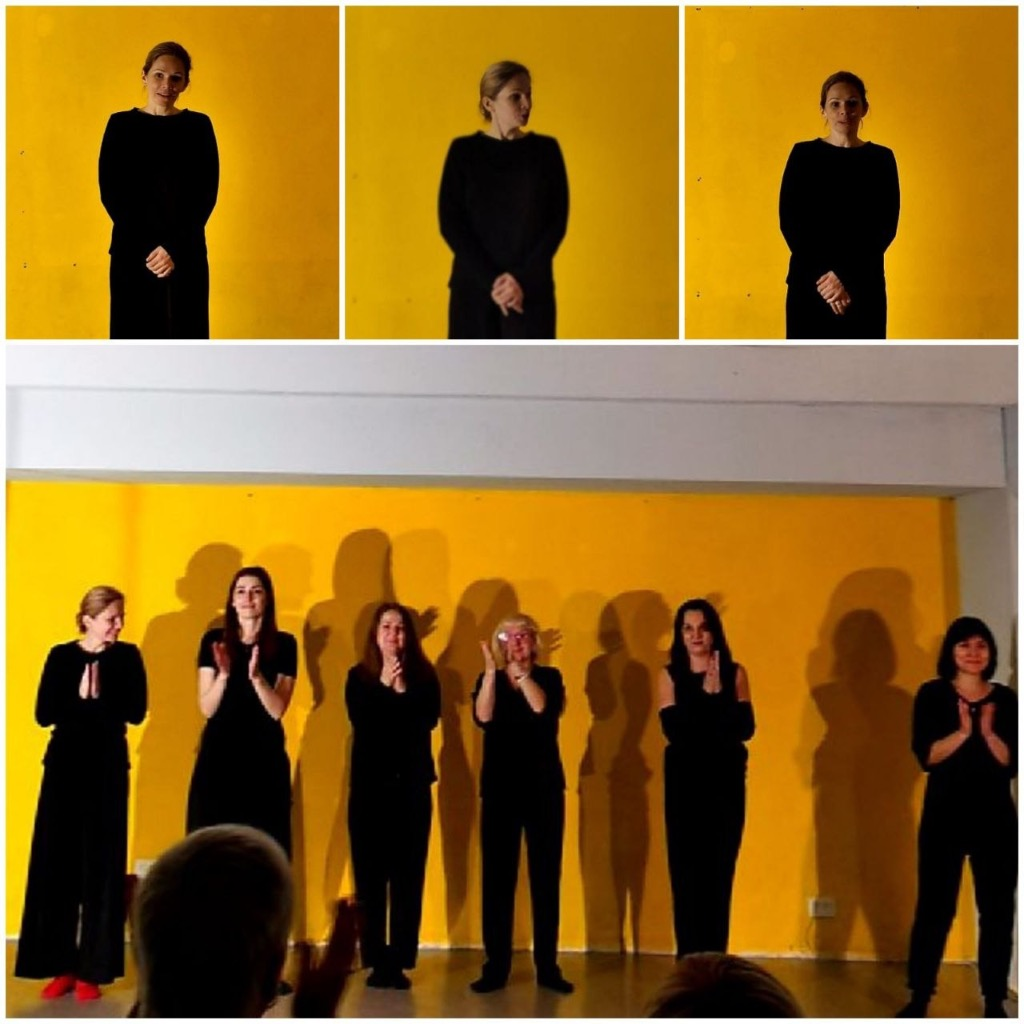
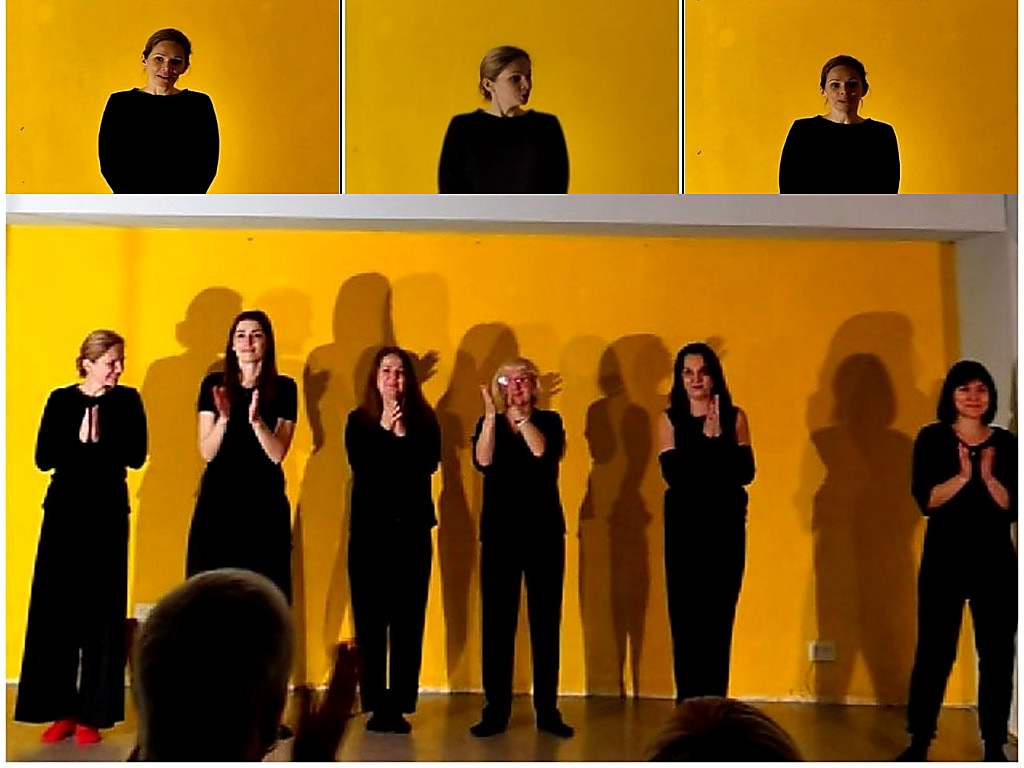
fix(frontend): remove blur overlays and eliminate carousel image haze
- Remove full-height dark gradient overlay (inset-0) that dimmed 70% of each slide in a muddy wash
- Remove backdrop-blur-md from caption bar and side arrows, replacing with crisp high-contrast bg-ink/90 chips
- Scope will-change: transform on .carousel-track to active animation state (.is-animating), preventing stationary GPU texture downsampling and blur in Chromium
- Add image-rendering: -webkit-optimize-contrast to carousel slide images for sharp responsive scaling
- Enhance 03-theatre-ensemble.jpg with unsharp mask to bring messenger-compressed source into balance with other slides

diff --git a/frontend-svelte/src/lib/components/PhotoCarousel.svelte b/frontend-svelte/src/lib/components/PhotoCarousel.svelte
@@ -32,7 +32,7 @@
 			src: '/images/carousel/04-theatre-applause.jpg',
 			title: () => m.home_carousel_slide4_title(),
 			tag: () => m.home_carousel_slide4_tag(),
-			objectPosition: 'center 90%'
+			objectPosition: 'center'
 		}
 	];
 

diff --git a/docs/context/KNOWN_ISSUES.md b/docs/context/KNOWN_ISSUES.md
@@ -185,6 +185,14 @@ client version 1.32 is too old. Minimum supported API version is 1.40`.**
 — пропускает сломанное согласование версии. Настоящий фикс (не
 применялся, крупнее по риску) — апгрейд Testcontainers до 2.0.2+.
 
+---
+
+## Frontend
+
+**Фотографии для слайд-шоу/карусели Hero-секции: НИКОГДА не втискивать нестандартные пропорции через CSS-хаки (`object-fit: cover` + `objectPosition`). Исходники ОБЯЗАНЫ быть предварительно обработаны под точный аспект контейнера (4:3).**
+- Попытка подогнать квадратный 1:1 коллаж/кадр (1024×1024) в 4:3 контейнер через CSS `objectPosition` неизбежно срезает четверть кадра по вертикали: при `center top` отрезаются ноги и передний план, при `center 90%` срезаются головы верхнего ряда («Всадник без головы») и пополам режется режиссер на переднем плане.
+- **Правило:** если фотография или коллаж не соответствуют пропорциям сценического контейнера (4:3) — **немедленно предобрабатывать растровый ассет** (удаление мертвого пространства потолка/пола, компоновка коллажей в точные 1024×768 / 4:3 с сохранением естественных пропорций лиц без сплющивания/растяжения). В CSS карусели оставлять чистый `objectPosition: 'center'` без костыльных смещений.
+
 ## Как пополнять этот файл
 
 Добавляй сюда только вещи, которые: (а) уже один раз стоили времени на
